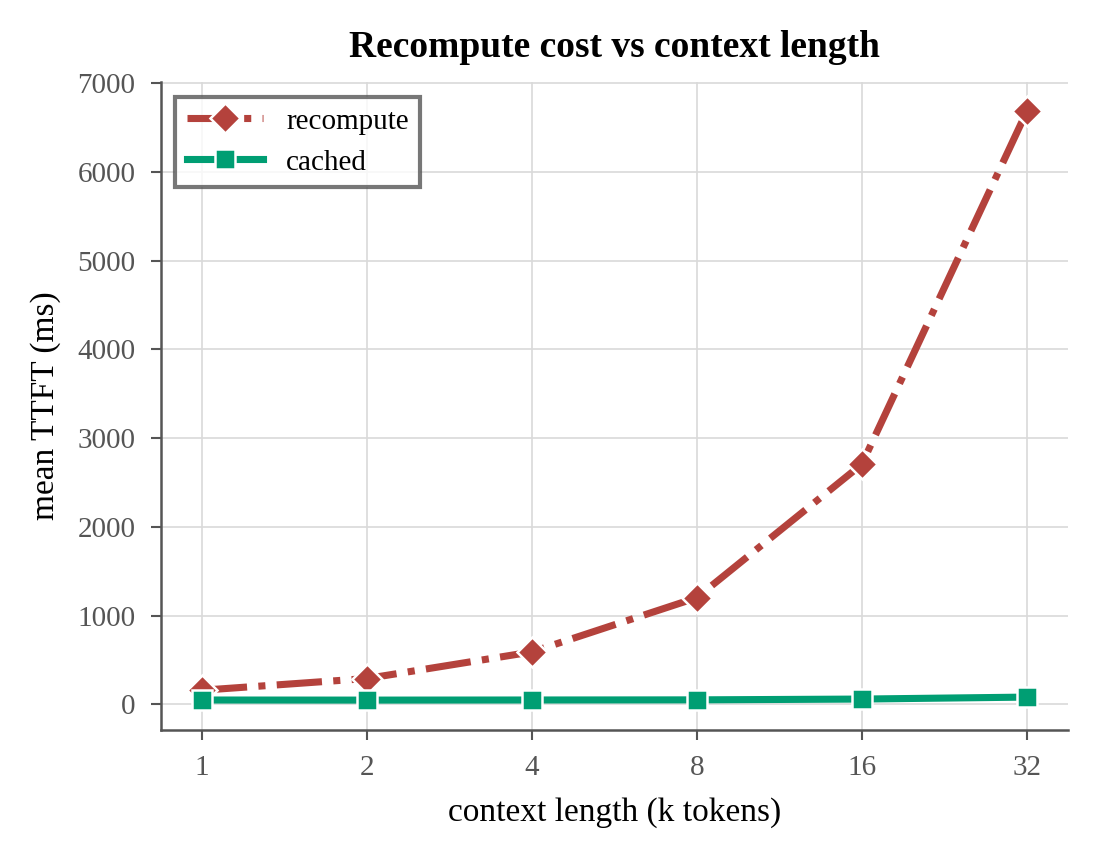
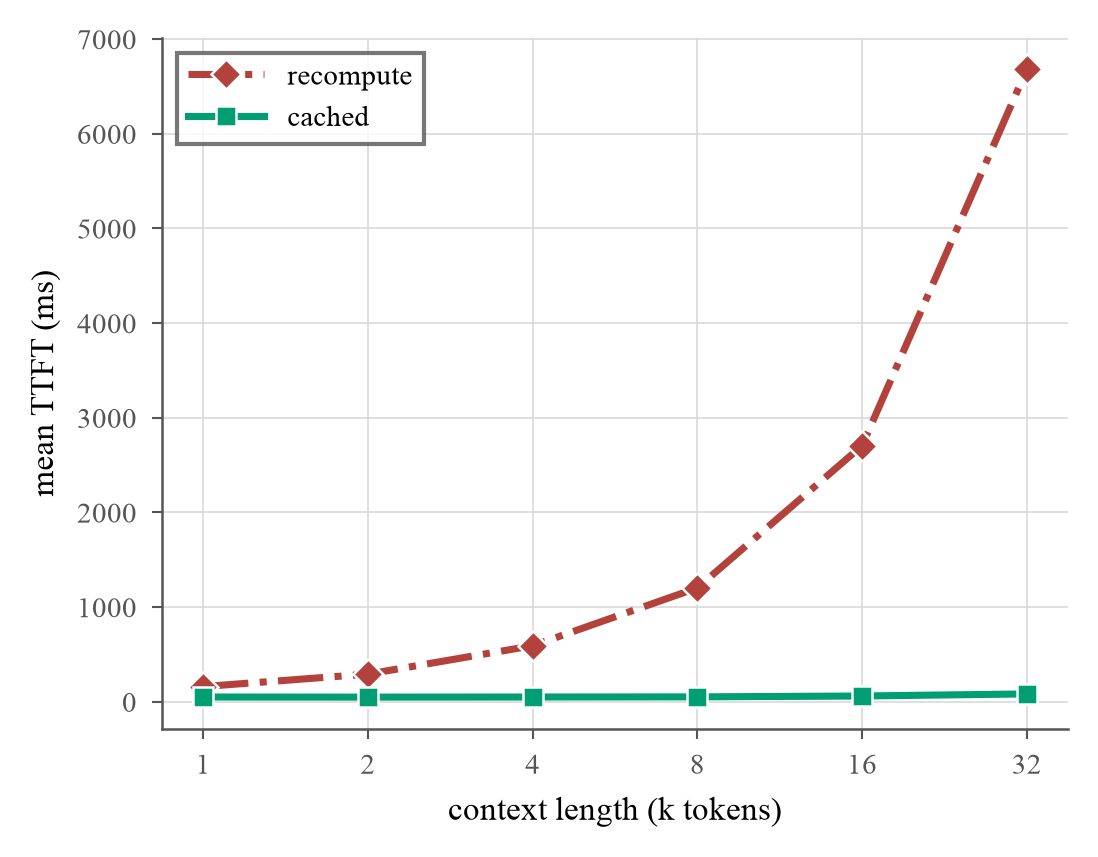
ttft_ctx_sweep: drop figure title (graph only); re-render from real data
Claude-Session: https://claude.ai/code/session_01AoK4pG7kwrWE4Xc7fqoTVf

diff --git a/benchmark/ttft_ctx_sweep.py b/benchmark/ttft_ctx_sweep.py
@@ -144,7 +144,6 @@ def render(lengths, cached_ms, recompute_ms, out):
     ax.set_xticklabels([f"{int(x)}" if x >= 1 else f"{x:g}" for x in xs])
     ax.set_xlabel("context length (k tokens)")
     ax.set_ylabel("mean TTFT (ms)")
-    ax.set_title("Recompute cost vs context length")
     style_axes(ax)
     ax.legend(frameon=True, fancybox=False, edgecolor=PALETTE["muted"], facecolor="white",
               handlelength=2.6, loc="upper left")
